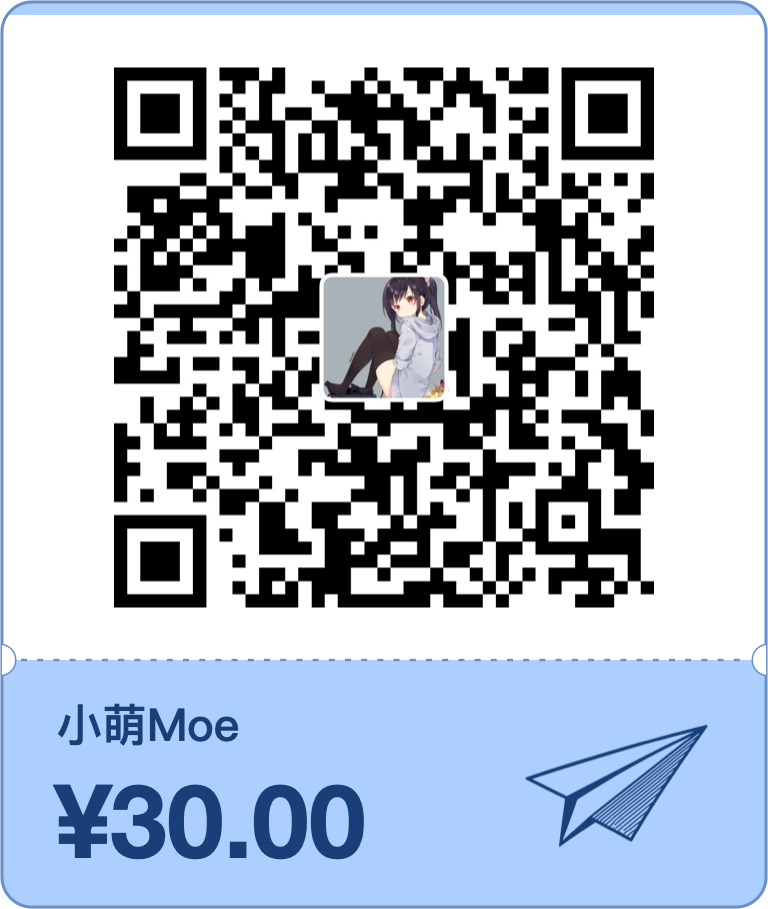
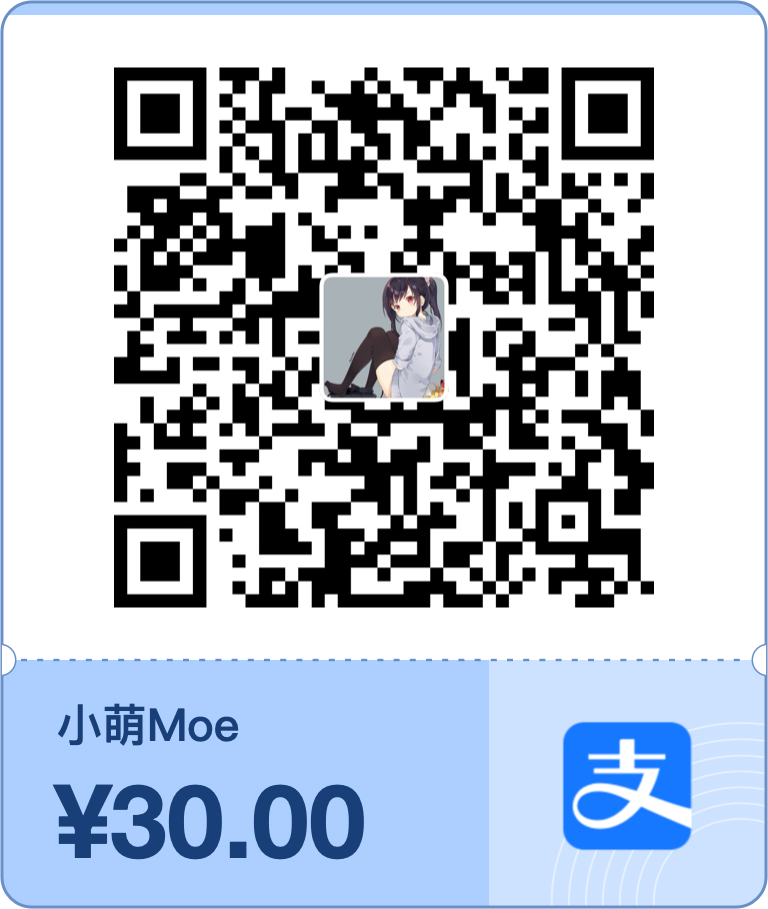
Use official payment marks and simplify sponsor copy

Changed region(s): [[0.625, 0.7085, 1.0, 1.0]]

diff --git a/README.md b/README.md
@@ -23,7 +23,7 @@ Parse native documents into a common structure, then export to the formats you n
 
 ## SPONSOR
 
-我喝咖啡，模型吃 token。用支付宝（蓝）或微信（绿）投喂 30 元，请它再啃一篇 PDF。
+开发不易，token 自费，感谢您对开源工作的支持。
 
 <p>
   <img src="assets/alipay.png" alt="支付宝收款码，小萌Moe，30 元" width="232">
